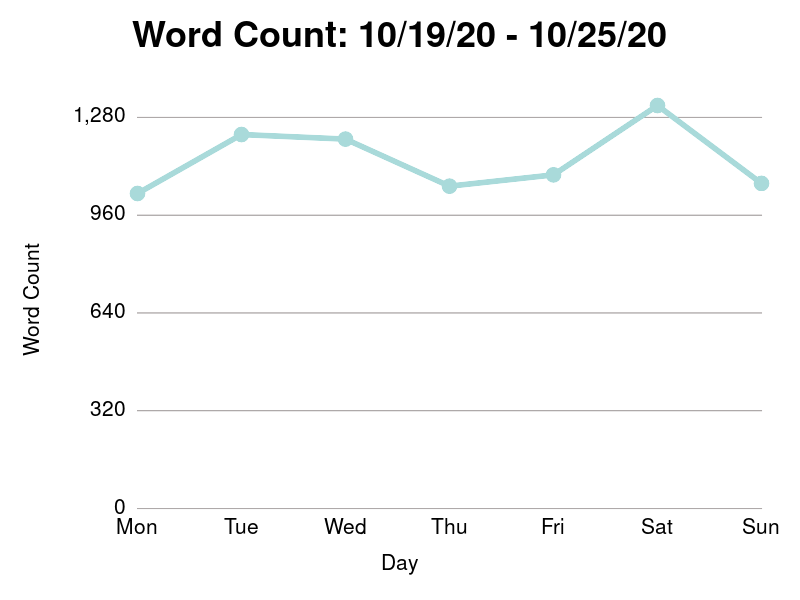
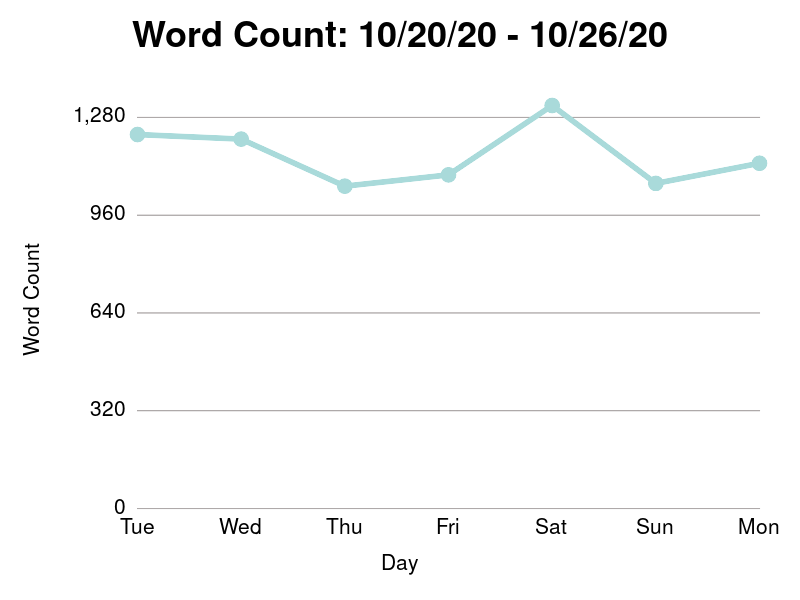
POST

diff --git a/entries/2020-10-26.md b/entries/2020-10-26.md
@@ -1,0 +1,144 @@
+---
+title: winter, pulling a miles, and the vitamin fight
+---
+
+Dear Journal,
+
+Good morning, everyone.  Happy Monday.  Hope you have something warm
+to wear and some hot coffee to sip on.
+
+It's no secret that I'm the kind of person to lean into the winter.
+If I had a favorite season, that would be it.  Here we are in October,
+and all it took was a small dusting of frost for me to let my Winter
+enthusiasm run hog wild.  Yesterday for dinner we celebrated the first
+frost with some beef and vegetable stew, a spicy bottle of malbec, and
+of course, curling on the couch to watch the movie _Frozen_.
+
+Going to make a painfully uncontroversial understatement here, but
+_Frozen_ is a pretty good movie, isn't it?  Each year we watch it, it
+seems to climb the ranks of my personal favorite Disney movies - not
+that that's a very big list anyway.  _Frozen_ has earned my respect.
+The opening score gives me chills.  I find the imagery and the
+characters compelling.  There's lots of little hidden jokes sprinkled
+around for the parents.  I'm as shocked as anyone that I've become so
+loyal to a Disney movie.  Maybe I just had to endure enough terrible
+kids media before that could ever become a possibility.  Helplessly
+sitting through the endless repeated punishment of _Trolls_, _Bolt_,
+and - _shudder_ - Blippi - might make you count your blessings and
+appreciate that narrow sliver of good movies you can watch with your
+kids.
+
+<figure>
+<a href="/images/2020-10-26-movie.jpg">
+<img alt="2020 10 26 movie" src="/images/2020-10-26-movie.jpg"/>
+</a>
+<figcaption>
+<p>Rodney and Marissa get cozy for a movie.</p>
+</figcaption>
+</figure>
+
+"I'm so glad that they never made a sequel to this movie," said
+Marissa during the opening credits.
+
+"Yeah, isn't that great?" I replied.  "How cool that they just left it
+alone, it makes the movie even better."
+
+We're well aware they made a _Frozen 2_.  But Marissa and I have
+entered into a sacred pact where we don't mention it and just pretend
+it never happened.  In fact, I'm pretty sure that's the last time I'll
+ever mention it in this daily publication.
+
+Rodney is also excited for winter.  Putting him to bed, he started to
+ramble about all the fun winter activities he planned for the morning.
+"I'm going to make SNOW ANGELS," he said crawling into his blanket
+with wide eyes.  Needless to say, the small dusting last night wasn't
+quite enough to make that possible.  Rodney will have to be a little
+more patient.
+
+"I'm depressed about winter," said Marissa clutching her hoodie,
+staring out into the backyard.  "We've been talking about it like it
+was far off, but now that I can see snow, it's just so..."
+
+"Permanent?" I said finishing her phrase.
+
+Marissa nodded.  "Yeah.  I guess it feels a little permanent."
+
+"We'll have fun with it," I said.  "It might suck, but I'm prepared to
+gut through it and make it as fun as possible."
+
+_Sip_.  How's your Monday going?  How are you feeling today?  Did you
+wake up in bed with your head and legs switched around?  Around our
+house, we call that _pulling a Miles_.  Lately, each time we get him
+out of his crib, he's turned around the opposite way.  I'm sure it
+gradually happens throughout the night with incrementally small
+wiggles and squirms, but I'd like to imagine that he's instead figured
+out how to spin quickly on his butt, like a break dancing move.  Just
+picture it.  A baby who secretly break dances when his parents aren't
+watching.  I ought to pitch that to Disney - _that_ could be a movie.
+
+I'm feeling good today.  The stars are aligning for a great start to
+the week.  My on-call shift ended an hour ago.  We have good food and
+wine in the house.  And of course, the Bears play today.  Sitting here
+in my Bears jersey drinking coffee out of my jumbo sized Bears mug,
+I'm wondering if I'm laying on the enthusiasm a little thick.  In
+fact, if the Packers didn't have a nice little blowout over the Texans
+yesterday, I might have had to leave my laptop camera off today.  I
+don't want to be accused of rubbing in the fact that the Bears are the
+top playoff seed in the NFC right now.
+
+A weekend without football felt strange.  With all the exciting games
+happening yesterday, I felt a little left out.  But I'll take a Monday
+night game too - especially one during my first night off duty.
+Here's to shutting off my obnoxious phone and leaving it in the corner
+so I can nervously sit perched on the edge of my couch.
+
+In other news, make sure you remember to take your vitamins today.
+For us, that means four, soon to be five supplements - not counting
+the Flintstone vitamins.  Marissa and I got in a small quarrel over
+what I see as a growing problem.
+
+"Is it OK if I get some Calcium too?" said Marissa.  I slammed my beer
+on the counter and bit my lip.
+
+"Calcium?" I repeated.  "We gotta take Calcium too?  Who says?"
+
+"I remember a nutrition prof I had say that Calcium was good, and I
+don't drink a lot of dairy."
+
+"Well can you just start drinking milk?" I asked.
+
+"I don't like the texture," said Marissa.
+
+"What about our water, there isn't enough calcium in it?" I retorted.
+
+"I don't drink our water, I like bottled," said Marissa.  "You don't
+have to take it if you don't want to."
+
+"Yeah, but it's still another vitamin we have to add to our routine -
+I still gotta help arrange them all on the cutting board before we go
+to bed.  And they take up space on the window sill."  I said.  "I just
+think it's getting out of hand."
+
+"Do you have something against vitamins?" said Marissa.
+
+"I just..." I began to stumble over my words.  "I don't want to commit
+to taking like nine vitamins forever.  It's a little tedious.  Like,
+how many vitamins is enough"
+
+"Twenty six," said Marissa with a smirk.  "The whole alphabet.  What,
+are you picturing some kind of apothecary spilling over into the
+kitchen.
+
+"Sort of, yes," I laughed nervously.  A thought popped into my head.
+"What about multi vitamins," I said, snapping my fingers.  "Can we
+just switch to multis?  You know - consolidate."
+
+"I think those Flintstone gummies are technically multivitamins," said
+Marissa.  She picked up the colorful can to inspect the label.  "Oh,
+so it's got C and D.  You know if you want, we can probably stop
+taking those if we're just good about the gummmies."
+
+"That helps," I sighed.  "Sounds like a small thing, but that clears a
+little more room on the shelf."
+
+Thanks for stopping by today.  Have a great morning, everyone.
